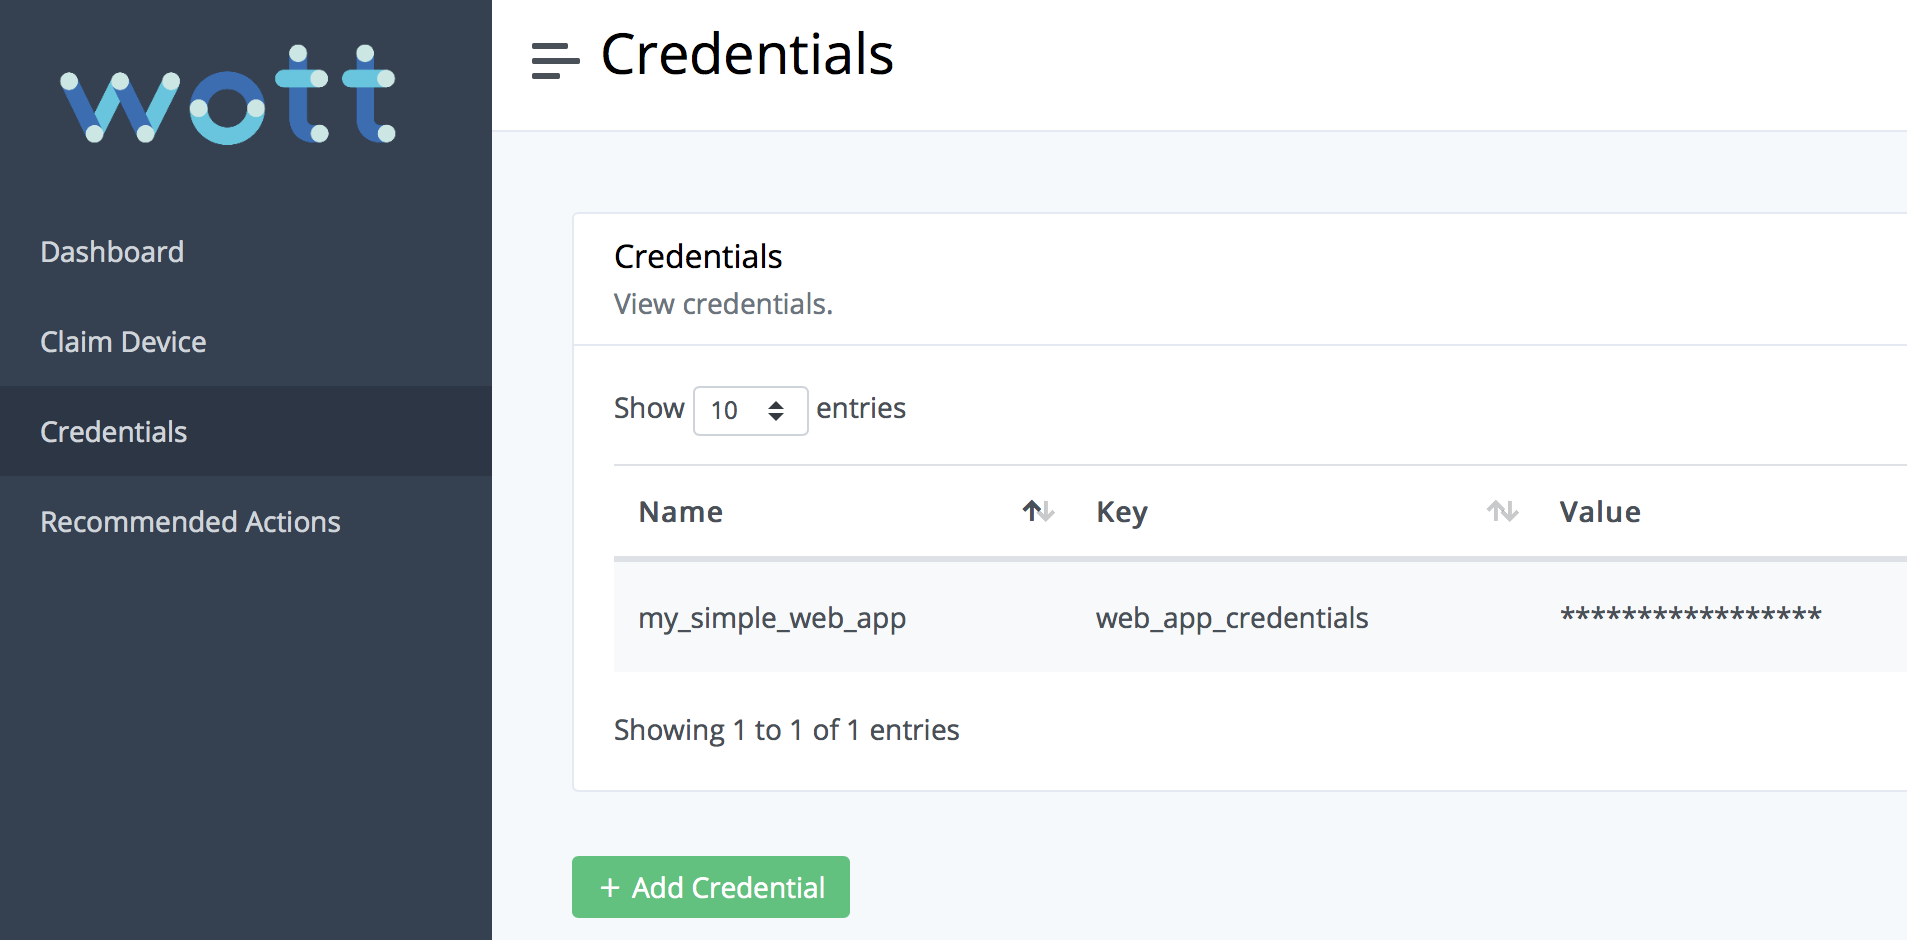
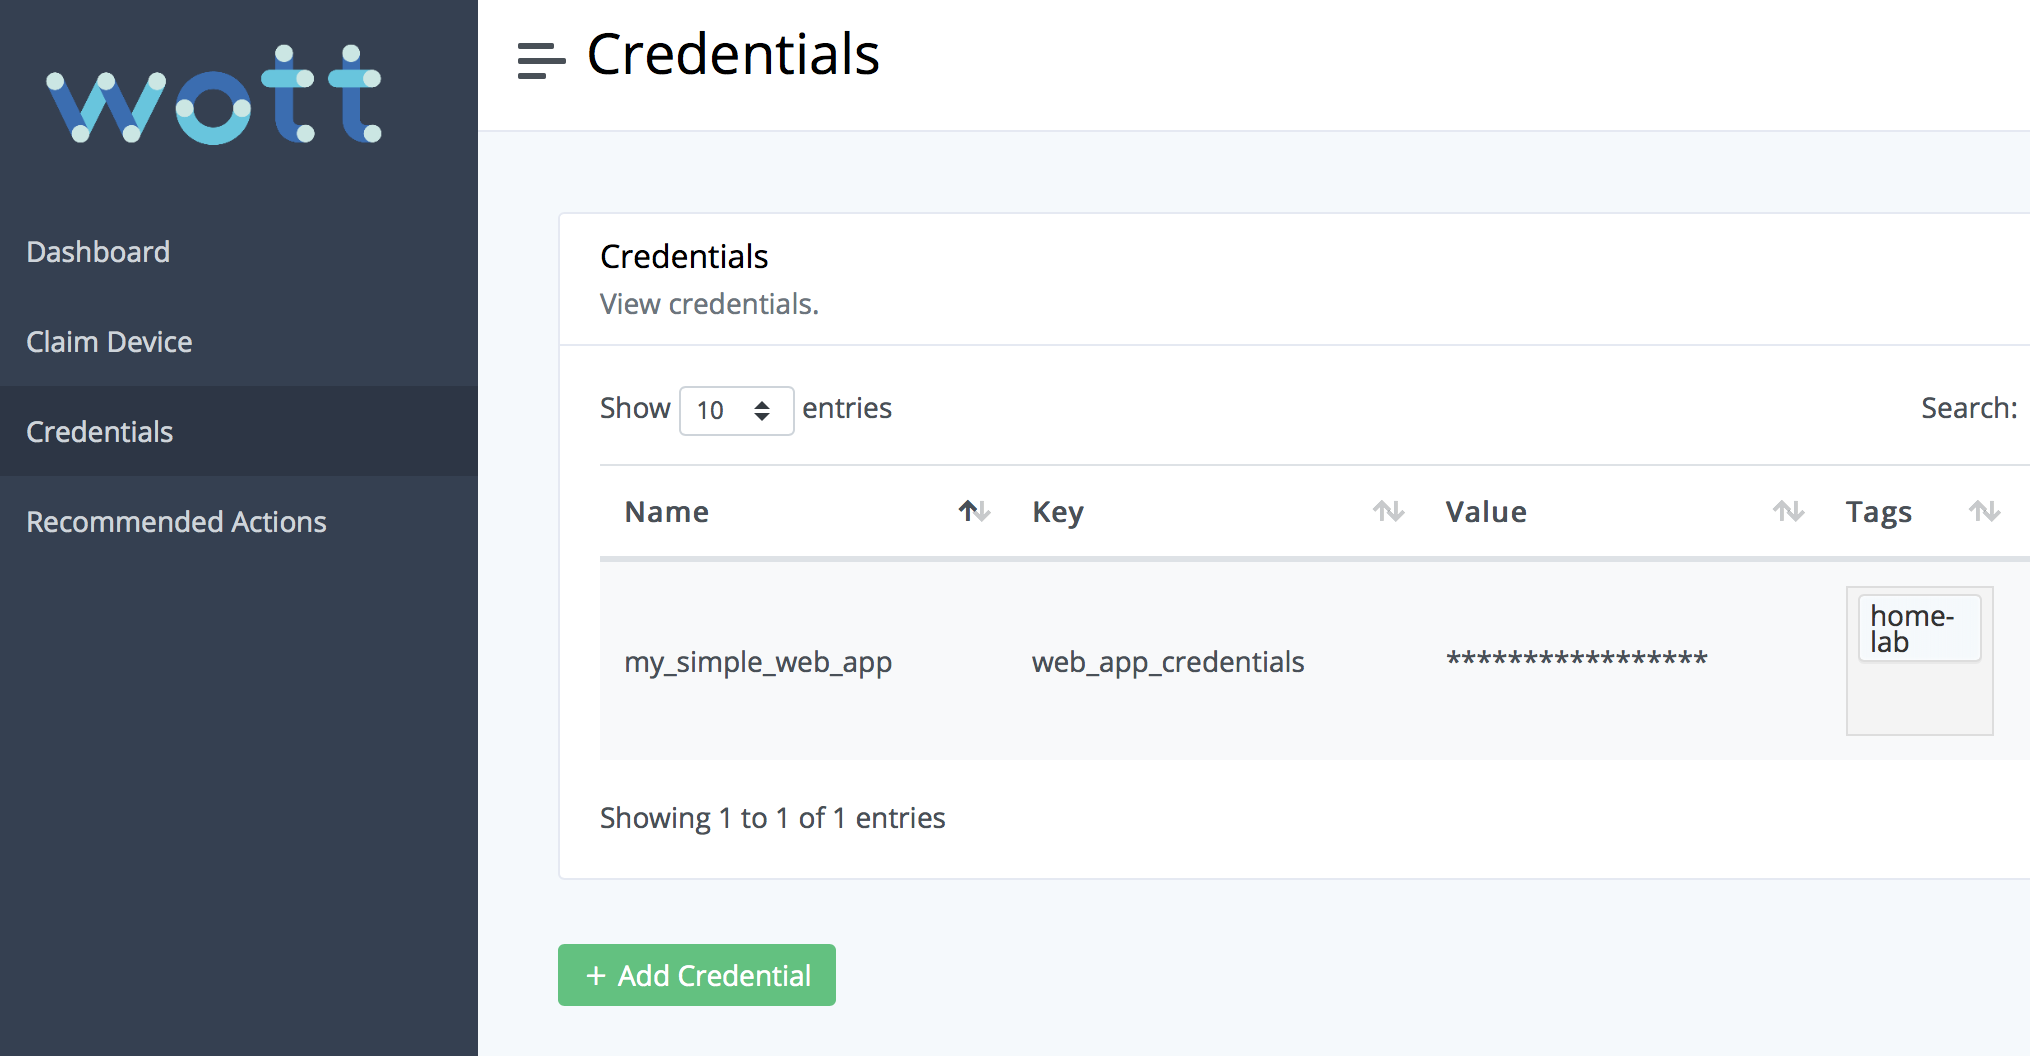
initial changes

diff --git a/docs/examples/simple-webapp-auth/README.md b/docs/examples/simple-webapp-auth/README.md
@@ -17,26 +17,38 @@ For this example, you will need to have the WoTT Dash set up, so if you haven't 
 
 ![Wott Login](https://github.com/WoTTsecurity/agent/blob/master/docs/examples/simple-webapp-auth/wott-login.png)
 
+If you have already got the WoTT Agent installed but haven't got the dash and the claim information, don't worry. Follow these commands to get the information you need to set it up:
+
+```
+$ wott-agent claim-url
+$ wott-agent whoami
+$ wott-agent claim-token
+```
+
+This will give you all the information you need to manually claim your device.
 
 ## Adding Credentials
 
 Once you have your devices enrolled, you need to navigate to the Credentials page in the Dashboard. You will need to add a credential to use to access the WebApp later. 
-The credential subheaders may seem a little confusing. In essence, `Name` refers to the name of the application you need credentials for. In our case, it's the simple WebApp. The `Key` is how the application then queries its credentials with `Value` referring to the actual contents of the key (the secure bit). 
+The credential subheaders may seem a little confusing. In essence, `Name` refers to the name of the application you need credentials for. In our case, it's the simple WebApp. The `Key` is how the application then queries its credentials with `Value` referring to the actual contents of the key (the secure bit). `Tags` is to match the tags of your chosen device to the credential so you can manage which credentials are downloaded to each device.
+
 For our example, add the following credential:
 
 ```
 Name = my_simple_web_app
 Key = web_app_credentials
 Value = username:password
+Tags = home-lab
 ```
 
-In place of `username:password` you can enter your own username and password but it is sufficient for this demonstration to leave it as is. If all is successful, the page should now look something like this:
+In place of `username:password` you can enter your own username and password but it is sufficient for this demonstration to leave it as is. This is also assuming the tag of the device you will be downloading the credential on is `home-lab`.
+If all is successful, the page should now look something like this:
 
 ![Wott Credentials](https://github.com/WoTTsecurity/agent/blob/master/docs/examples/simple-webapp-auth/wott-dash.png)
 
 
 
-The credentials are now ready to be used on all your WoTT enabled devices. On your server device, you will now need to relaunch the WoTT Agent to download the new credentials:
+The credentials are now ready to be used on your specified WoTT enabled device, in this case `home-lab` or your home machine. On this device, you will now need to relaunch the WoTT Agent to download the new credentials:
 
 ``` 
 $ sudo service wott-agent restart
